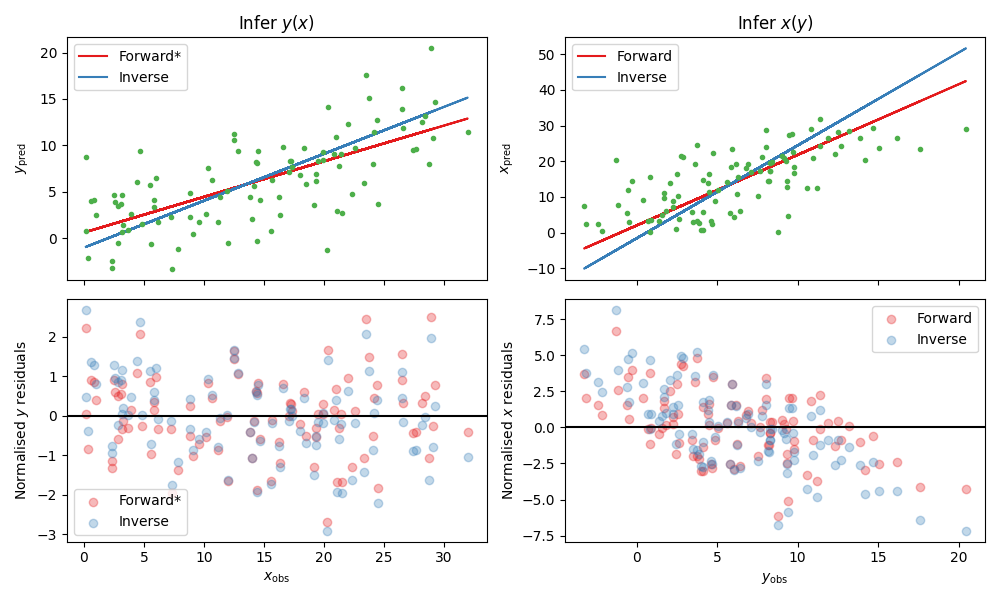
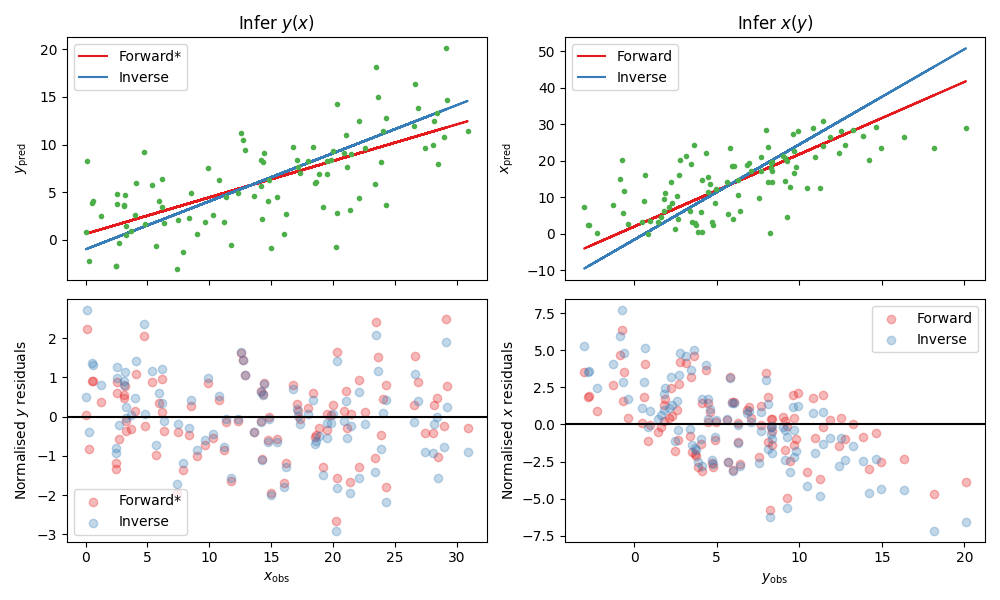
Add p-values to causality checks

diff --git a/roxy/causality.py b/roxy/causality.py
@@ -105,25 +105,29 @@ def assess_causality(fun, fun_inv, xobs, yobs, errors, param_names, param_defaul
     resid_yx_inverse = (yobs - fun_inv(xobs, theta_xy)) / yscale
     resid_xy_forward = (xobs - fun(yobs, theta_xy)) / xscale
     resid_xy_inverse = (xobs - fun_inv(yobs, theta_yx)) / xscale
-    items = [('y vs x forward', resid_yx_forward, xobs),
-             ('y vs x inverse', resid_yx_inverse, xobs),
-             ('x vs y forward', resid_xy_forward, yobs),
-             ('x vs y inverse', resid_xy_inverse, yobs)]
+    items = [('y(x) forward', resid_yx_forward, xobs),
+             ('y(x) inverse', resid_yx_inverse, xobs),
+             ('x(y) forward', resid_xy_forward, yobs),
+             ('x(y) inverse', resid_xy_inverse, yobs)]
     
     results = np.ones(len(items)) * np.inf
     
     for i, (name, resid, data) in enumerate(items):
         if criterion == 'spearman':
-            results[i] = spearmanr(data, resid)[0]
-            print(f"\n{name} Spearman:", round(results[i],3))
+            results[i], pval = spearmanr(data, resid)
+            print(f"\n{name} Spearman: {round(results[i],3)}, (p={round(pval,3)})")
         elif criterion == 'pearson':
-            results[i] = pearsonr(data, resid)[0]
-            print(f"{name} Pearson:", round(results[i],3))
+            results[i], pval = pearsonr(data, resid)
+            print(f"\n{name} Pearson: {round(results[i],3)}, (p={round(pval,3)})")
         elif criterion == 'hsic':
             stat, results[i] = compute_hsic(np.expand_dims(data, axis=1),
                         np.expand_dims(resid, axis=1),
-                        alph=0.05)
-            print(f"{name} HSIC: {round(stat,3)}, (conf={round(results[i],3)})")
+                        alph=0.001)
+            if np.isnan(results[i]):
+                print(f"\n{name} HSIC: {round(stat,3)}, (p<0.001)")
+                results[i] = 0.
+            else:
+                print(f"\n{name} HSIC: {round(stat,3)}, (p={round(results[i],3)})")
             results[i] = 1 - results[i]
         else:
             raise NotImplementedError
@@ -133,14 +137,16 @@ def assess_causality(fun, fun_inv, xobs, yobs, errors, param_names, param_defaul
     
     if not np.all(np.isnan(results)):
         ibest = np.nanargmin(np.abs(results))
-        print("\nRecommended direction:", items[ibest][0])
+        if ibest in [0, 3]:
+            print("\nRecommended direction: y(x)")
+        else:
+            print("\nRecommended direction: x(y)")
         labels[ibest] += '*'
         
     # Plot
     fig, axs = plt.subplots(2, 2, figsize=(10,6))
         
     cmap = plt.get_cmap("Set1")
-    
     
     axs[0,0].plot(xobs, fun(xobs, theta_yx), label=labels[0], color=cmap(0))
     axs[0,0].plot(xobs, fun_inv(xobs, theta_xy), label=labels[1], color=cmap(1))

diff --git a/docs/source/tutorial.rst b/docs/source/tutorial.rst
@@ -389,7 +389,7 @@ We now call the function ``roxy.causality.assess_causality``
 	import roxy.causality
 	roxy.causality.assess_causality(my_fun, fun_inv, xobs, yobs, [xerr, yerr], 
 					param_names, theta0, param_prior, method='mnr',
-					criterion='spearman')
+					criterion='hsic')
 
 
 which gives the output
@@ -400,30 +400,30 @@ which gives the output
 	Fitting y vs x
 
 	Optimisation Results:
-	A:	0.38387027382850647
-	B:	0.6155025959014893
-	sig:	2.8722164630889893
-	mu_gauss:	14.387789726257324
-	w_gauss:	8.647834777832031
+	A:	0.38329729437828064
+	B:	0.6116797924041748
+	sig:	2.8931143283843994
+	mu_gauss:	14.385257720947266
+	w_gauss:	8.616861343383789
 
 	Fitting x vs y
 
 	Optimisation Results:
-	A:	1.9797508716583252
+	A:	1.9811209440231323
 	B:	2.0
 	sig:	3.0
-	mu_gauss:	6.214934349060059
-	w_gauss:	4.035924434661865
+	mu_gauss:	6.214134216308594
+	w_gauss:	4.011857032775879
 
-	y vs x forward Spearman: -0.029
+	y(x) forward HSIC: 0.159, (p=0.898)
 
-	y vs x inverse Spearman: -0.305
+	y(x) inverse HSIC: 0.655, (p=0.03)
 
-	x vs y forward Spearman: -0.435
+	x(y) forward HSIC: 0.772, (p=0.005)
 
-	x vs y inverse Spearman: -0.676
+	x(y) inverse HSIC: 2.342, (p<0.001)
 
-	Recommended direction: y vs x forward
+	Recommended direction: y(x)
 
 and the figure
 
